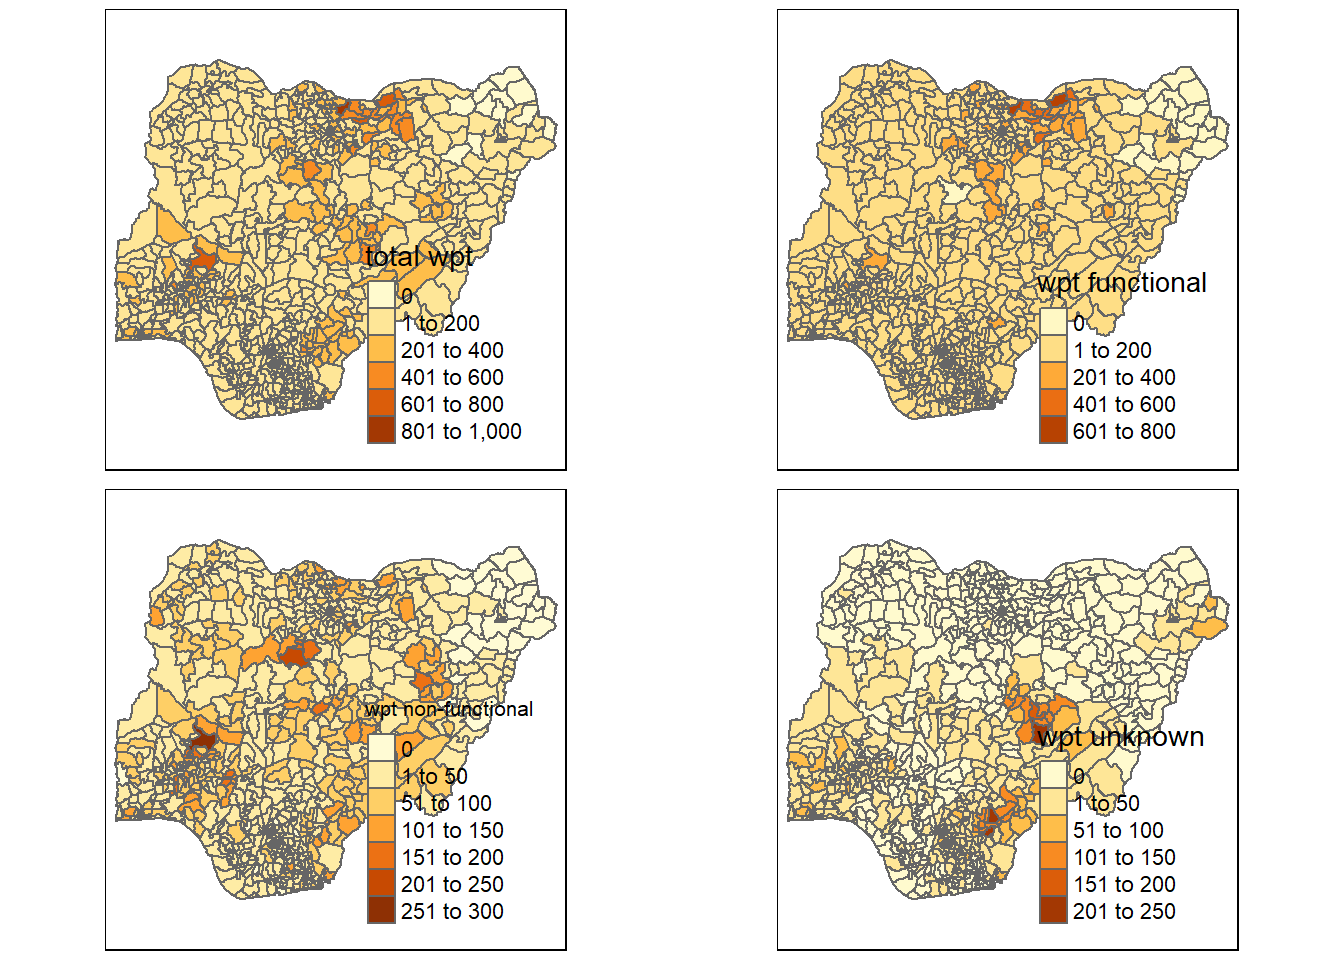
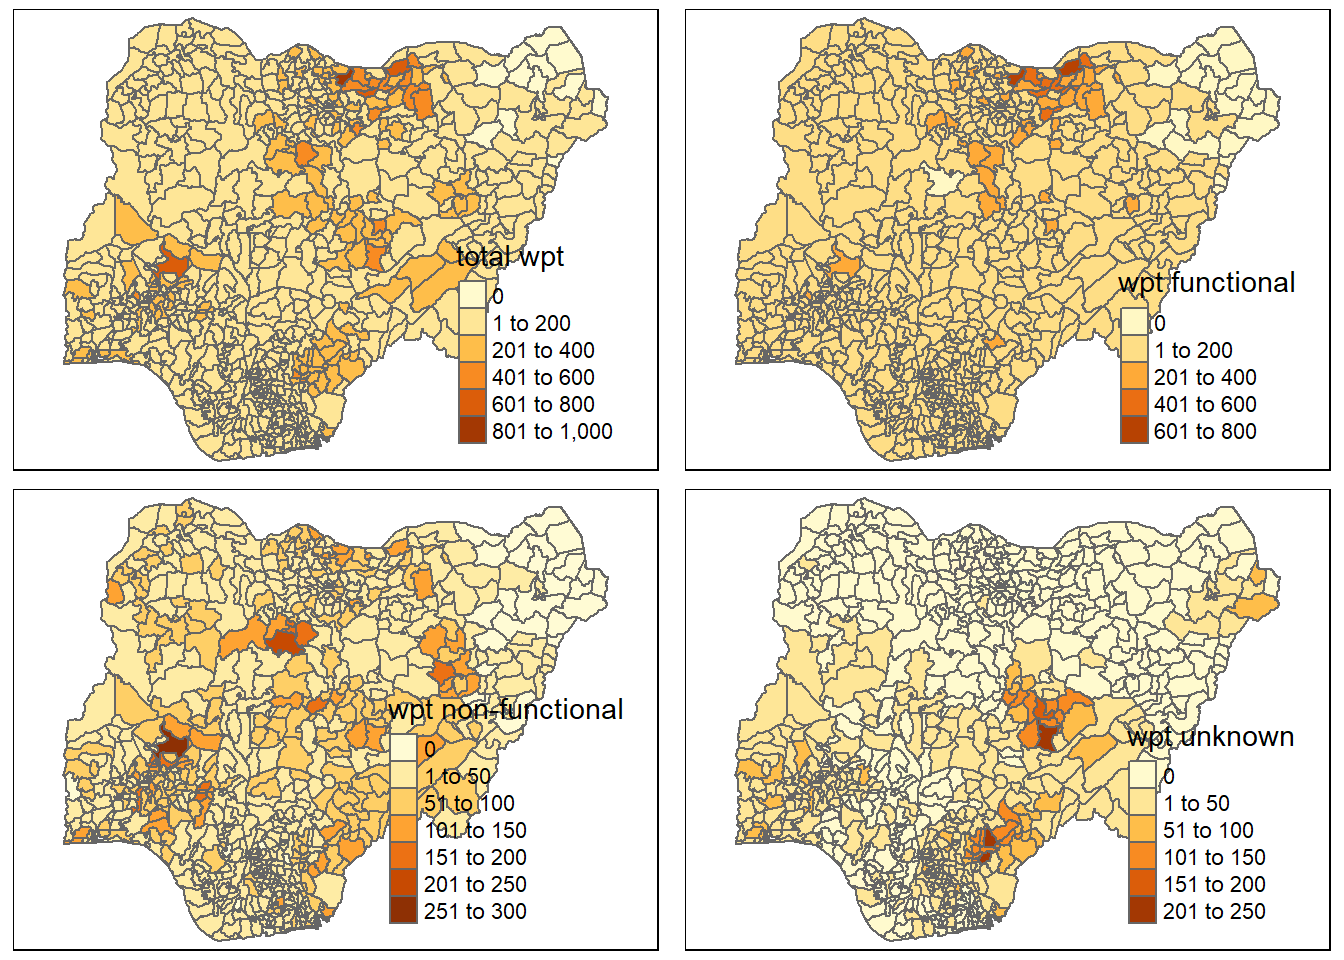
Commit 3rd revision on In-class Exercise 2

diff --git a/_site/In-class_Ex/In-class_Ex2/In-class_ex2.html b/_site/In-class_Ex/In-class_Ex2/In-class_ex2.html
@@ -353,7 +353,7 @@ code span.wa { color: #60a0b0; font-weight: bold; font-style: italic; } /* Warni
 <span id="cb15-4"><a href="#cb15-4" aria-hidden="true" tabindex="-1"></a>wp_nonfunctional <span class="ot">&lt;-</span> <span class="fu">qtm</span>(nga_wp, <span class="st">"wpt non-functional"</span>)</span>
 <span id="cb15-5"><a href="#cb15-5" aria-hidden="true" tabindex="-1"></a>unknown <span class="ot">&lt;-</span> <span class="fu">qtm</span>(nga_wp, <span class="st">"wpt unknown"</span>)</span>
 <span id="cb15-6"><a href="#cb15-6" aria-hidden="true" tabindex="-1"></a></span>
-<span id="cb15-7"><a href="#cb15-7" aria-hidden="true" tabindex="-1"></a><span class="fu">tmap_arrange</span>(total, wp_functional, wp_nonfunctional, unknown, <span class="at">asp=</span><span class="dv">1</span>, <span class="at">ncol=</span><span class="dv">2</span>)</span></code><button title="Copy to Clipboard" class="code-copy-button"><i class="bi"></i></button></pre></div>
+<span id="cb15-7"><a href="#cb15-7" aria-hidden="true" tabindex="-1"></a><span class="fu">tmap_arrange</span>(total, wp_functional, wp_nonfunctional, unknown, <span class="at">asp=</span><span class="dv">0</span>, <span class="at">ncol=</span><span class="dv">2</span>)</span></code><button title="Copy to Clipboard" class="code-copy-button"><i class="bi"></i></button></pre></div>
 <div class="cell-output-display">
 <p><img src="In-class_ex2_files/figure-html/unnamed-chunk-15-1.png" class="img-fluid" width="672"></p>
 </div>
